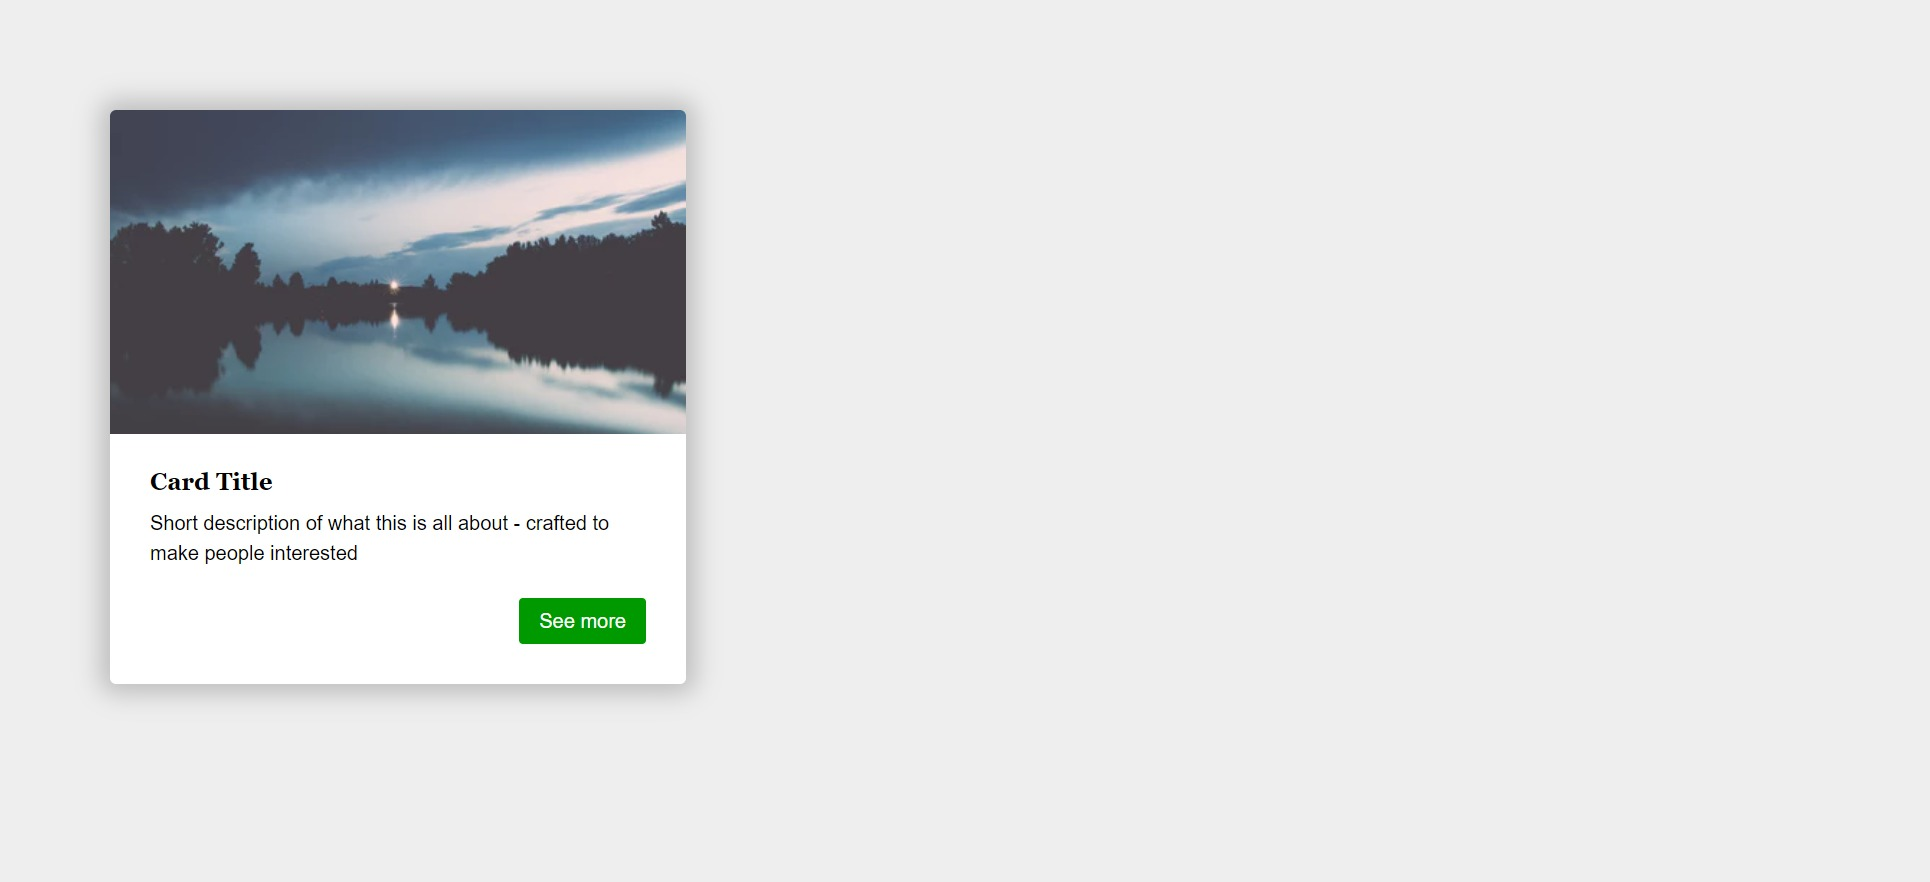
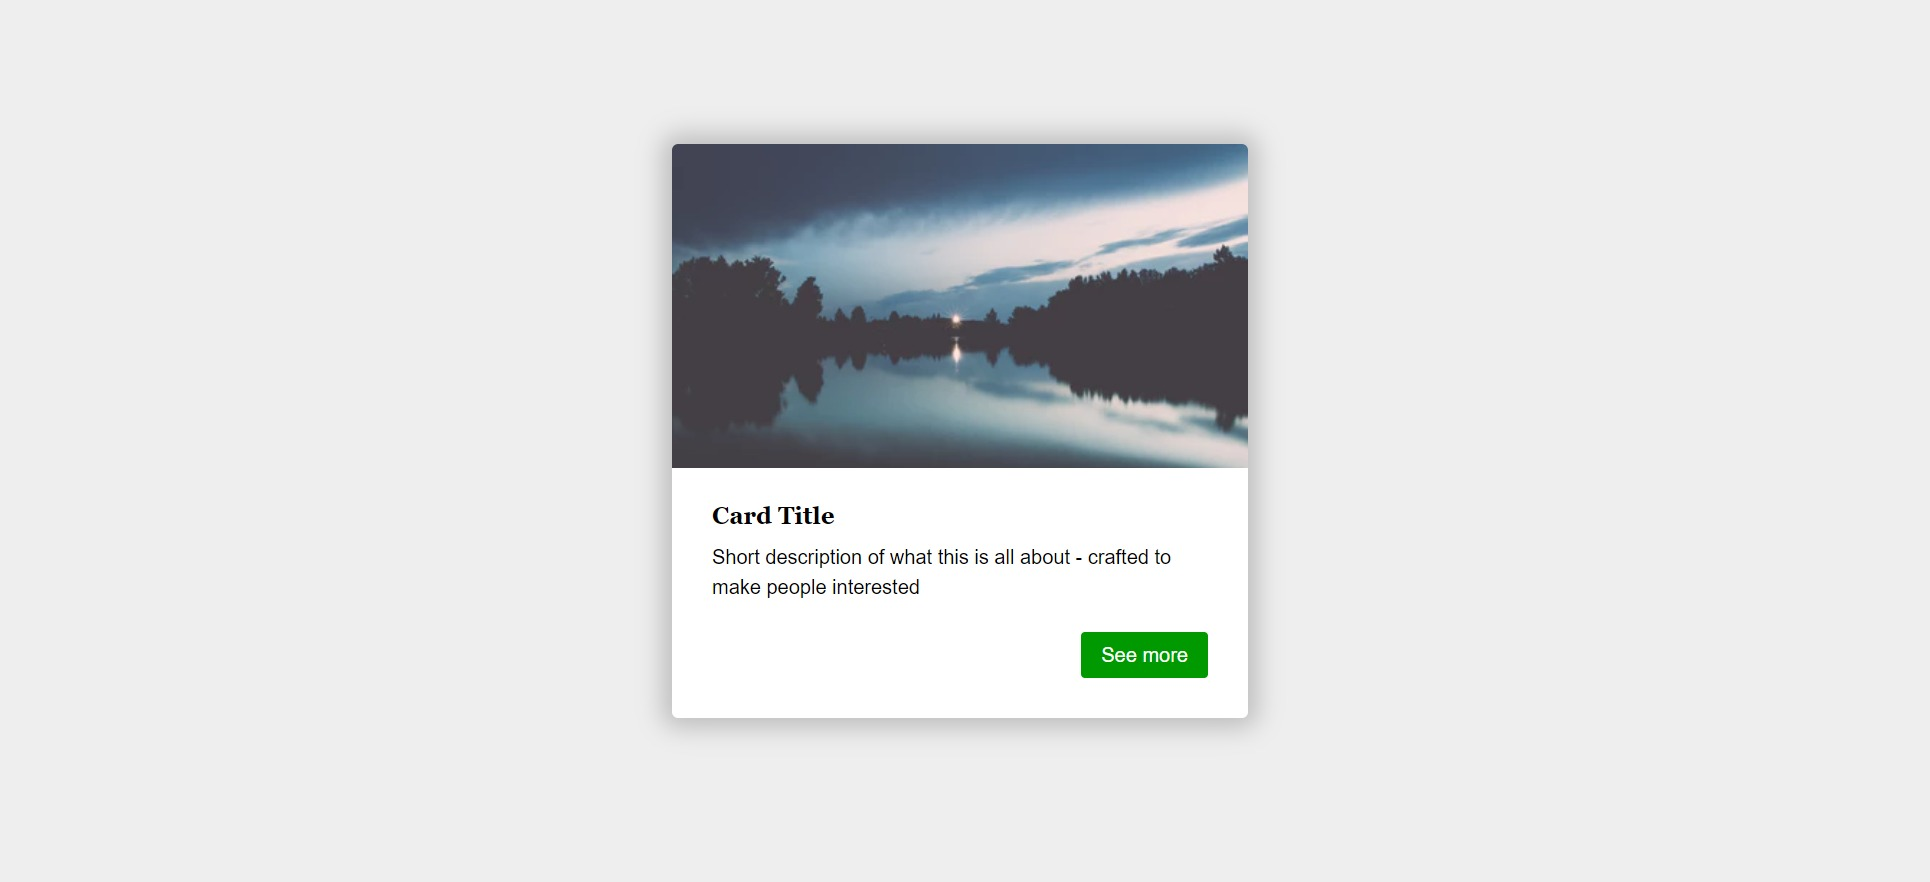
Media Queries homework

Changed region(s): [[0.0311, 0.0918, 0.6528, 0.8265]]

diff --git a/07_Media_Queries/05_Responsive-media-boxes/styles.css b/07_Media_Queries/05_Responsive-media-boxes/styles.css
@@ -1,0 +1,53 @@
+body{
+    font-family: Helvetica, serif;
+    font-size: 1em;
+    background-color: rgb(238, 238, 238);
+}
+
+.card{
+    background-color: rgb(255, 255, 255) ;
+}
+
+h1, h3{
+    font-family: Georgia, serif;
+    font-size: 1.2em;
+}
+
+section{
+    border-radius: 8px;
+    overflow: hidden;
+    position: absolute;
+    top:50%;
+    left:50%;
+    transform: translate(-50%,-50%);
+    box-shadow: inset 0 0 10px darkgrey ;
+}
+
+
+img{
+    width:100%;
+}
+
+div.info-ctr{
+    padding: 10px 40px 40px 50px;
+    line-height: 1.5;
+}
+
+p{
+    margin-bottom: 60px;
+}
+
+button{
+    background-color: rgb(0,153,0);
+    padding: 10px;
+    border: none;
+    border-radius: 5px;
+    position: absolute;
+    bottom: 40px;
+    right:40px;
+}
+
+button a{
+    text-decoration: none;
+    color:white;
+}

diff --git a/07_Media_Queries/05_Responsive-media-boxes/index.html b/07_Media_Queries/05_Responsive-media-boxes/index.html
@@ -1,0 +1,26 @@
+<!DOCTYPE html>
+<html lang="en">
+<head>
+    <meta charset="UTF-8">
+    <meta http-equiv="X-UA-Compatible" content="IE=edge">
+    <meta name="viewport" content="width=device-width, initial-scale=1.0">
+    <link rel="stylesheet" href="./styles.css">
+    <title>Responsive Media Boxes</title>
+</head>
+<body>
+    <section class="card">
+        <div class="image-ctr">
+            <img src="./picture1.jpg" alt="">
+        </div>
+        <div class="info-ctr">
+            <h3>Card Title</h3>
+            <p>
+                Short description of what this is all about - crafted to make people interested
+            </p>
+            <button><a href="">See more</a></button>
+            
+        </div>
+    </section>
+    
+</body>
+</html>
